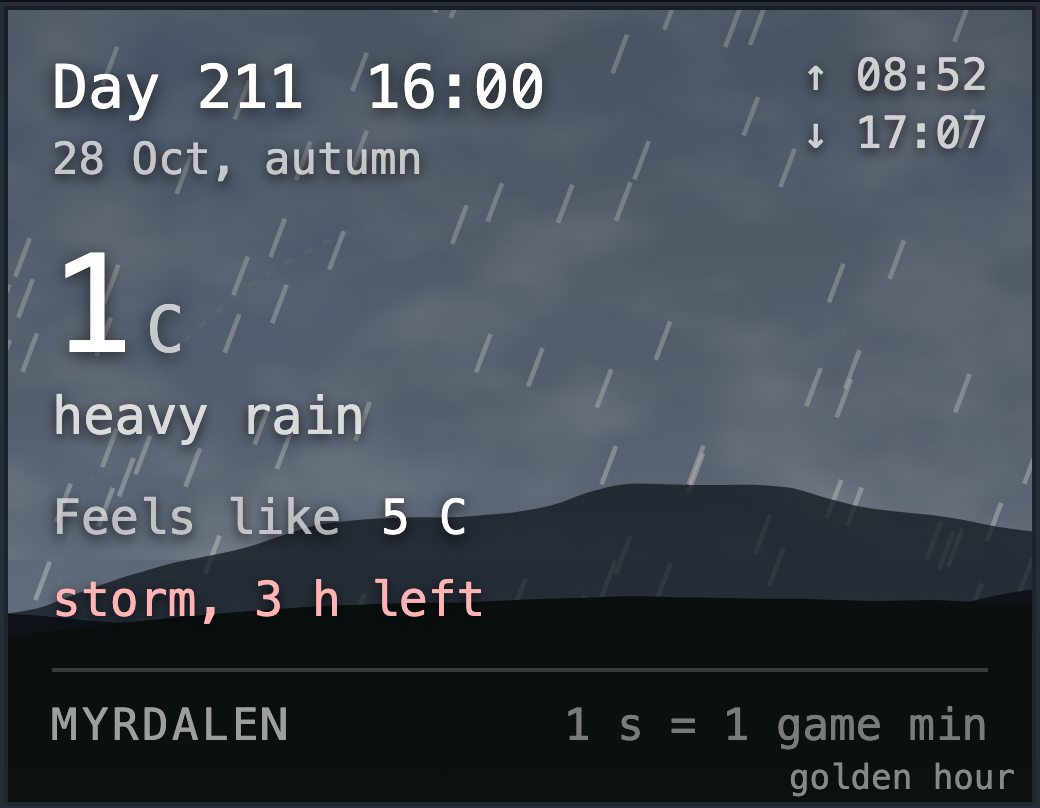
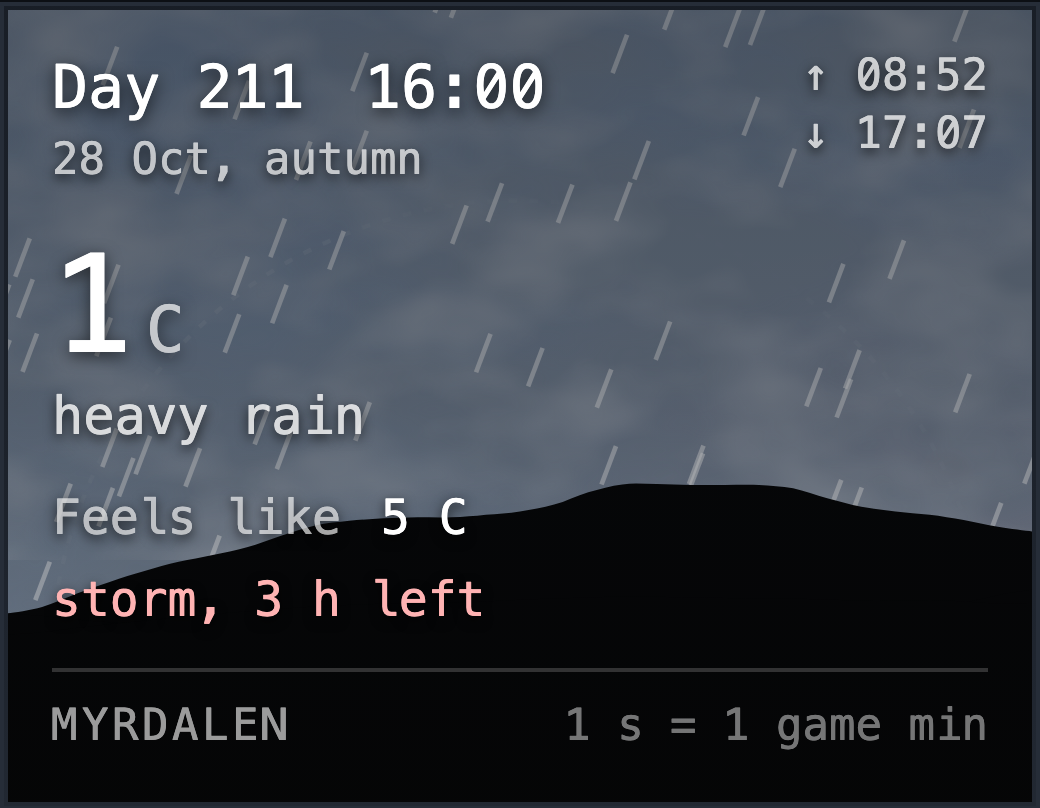
feat(survidle): enrich clear night skies

Changed region(s): [[0.0308, 0.5879, 1.0, 0.7735], [0.7385, 0.9282, 0.9538, 0.9901]]

diff --git a/08-survidle/src/ui/sky.ts b/08-survidle/src/ui/sky.ts
@@ -253,8 +253,54 @@ export function skyHtml(g: SkyGeom = STRIP, uid = "", showPhase = true): string 
   const u = uid ? `-${uid}` : "";
   const arc = `M ${g.cx - g.arcR} ${g.groundY} A ${g.arcR} ${g.arcR} 0 0 1 ${g.cx + g.arcR} ${g.groundY}`;
   const rand = (n: number, seed: number) => ((Math.sin(seed * 12.9898) * 43758.5453) % 1 + 1) % 1 * n;
-  const stars = Array.from({ length: 14 }, (_, i) =>
-    `<circle cx="${(rand(g.w, i + 1)).toFixed(1)}" cy="${(rand(g.groundY * 0.8, i + 31)).toFixed(1)}" r="${(0.5 + rand(0.6, i + 61)).toFixed(2)}" fill="#fff"/>`).join("");
+  const stars = Array.from({ length: 650 }, (_, i) => {
+    const bright = i % 47 === 0;
+    const middle = !bright && i % 9 === 0;
+    const r = bright ? 0.40 + rand(0.30, i + 61) : middle ? 0.18 + rand(0.20, i + 61) : 0.05 + rand(0.13, i + 61);
+    const opacity = bright ? 0.65 + rand(0.30, i + 81) : middle ? 0.35 + rand(0.35, i + 81) : 0.12 + rand(0.30, i + 81);
+    const colour = i % 29 === 0 ? "#d9e5ff" : i % 37 === 0 ? "#fff0dc" : "#fff";
+    return `<circle cx="${rand(g.w, i + 1).toFixed(1)}" cy="${rand(g.groundY * 0.82, i + 31).toFixed(1)}" r="${r.toFixed(2)}" fill="${colour}" opacity="${opacity.toFixed(2)}"/>`;
+  }).join("");
+  // A clean-edged river of light with a scatter of bright dust. The
+  // translucent strokes give the Milky Way breadth while the dust and
+  // procedural texture keep it crisp at widget scale.
+  const milkyPath = `M ${(g.w * 0.50).toFixed(1)} ${(-g.groundY * 0.08).toFixed(1)} C ${(g.w * 0.49).toFixed(1)} ${(g.groundY * 0.20).toFixed(1)}, ${(g.w * 0.60).toFixed(1)} ${(g.groundY * 0.36).toFixed(1)}, ${(g.w * 0.61).toFixed(1)} ${(g.groundY * 0.53).toFixed(1)} C ${(g.w * 0.62).toFixed(1)} ${(g.groundY * 0.70).toFixed(1)}, ${(g.w * 0.75).toFixed(1)} ${(g.groundY * 0.80).toFixed(1)}, ${(g.w * 0.795).toFixed(1)} ${(g.groundY * 0.96).toFixed(1)}`;
+  const milkyShape = `M ${g.w * 0.45} ${-g.groundY * 0.06} C ${g.w * 0.47} ${g.groundY * 0.18}, ${g.w * 0.50} ${g.groundY * 0.30}, ${g.w * 0.50} ${g.groundY * 0.43} C ${g.w * 0.50} ${g.groundY * 0.60}, ${g.w * 0.66} ${g.groundY * 0.78}, ${g.w * 0.75} ${g.groundY * 0.97} L ${g.w * 0.84} ${g.groundY * 0.97} C ${g.w * 0.77} ${g.groundY * 0.72}, ${g.w * 0.72} ${g.groundY * 0.60}, ${g.w * 0.73} ${g.groundY * 0.43} C ${g.w * 0.72} ${g.groundY * 0.28}, ${g.w * 0.57} ${g.groundY * 0.12}, ${g.w * 0.54} ${-g.groundY * 0.06} Z`;
+  const milkyDust = Array.from({ length: 650 }, (_, i) => {
+    const t = rand(1, i + 401);
+    const centre = g.w * (0.50 + 0.295 * t + Math.sin(t * Math.PI * 3) * 0.020);
+    const x = centre + (rand(1, i + 431) - 0.5) * g.w * (0.030 + Math.sin(t * Math.PI) * 0.140);
+    const y = g.groundY * (0.02 + 0.90 * t) + (rand(1, i + 461) - 0.5) * g.groundY * 0.045;
+    const bright = i % 23 === 0;
+    const middle = !bright && i % 5 === 0;
+    const r = bright ? 0.34 + rand(g === WALL ? 0.30 : 0.20, i + 491) : middle ? 0.18 + rand(0.22, i + 491) : 0.10 + rand(0.15, i + 491);
+    const colour = i % 7 === 0 ? "#dfc7ed" : i % 5 === 0 ? "#aec5f2" : "#f4f2ff";
+    const opacity = bright ? 0.65 + rand(0.30, i + 521) : middle ? 0.45 + rand(0.35, i + 521) : 0.22 + rand(0.36, i + 521);
+    return `<circle cx="${x.toFixed(1)}" cy="${y.toFixed(1)}" r="${r.toFixed(2)}" fill="${colour}" opacity="${opacity.toFixed(2)}"/>`;
+  }).join("");
+  const milkyFilaments = [
+    [`M ${g.w * 0.47} ${-g.groundY * 0.04} C ${g.w * 0.53} ${g.groundY * 0.18}, ${g.w * 0.54} ${g.groundY * 0.36}, ${g.w * 0.59} ${g.groundY * 0.56} C ${g.w * 0.65} ${g.groundY * 0.69}, ${g.w * 0.70} ${g.groundY * 0.82}, ${g.w * 0.80} ${g.groundY * 0.95}`, "#d9c4e9", 1.6],
+    [`M ${g.w * 0.52} ${-g.groundY * 0.04} C ${g.w * 0.48} ${g.groundY * 0.22}, ${g.w * 0.64} ${g.groundY * 0.39}, ${g.w * 0.59} ${g.groundY * 0.58} C ${g.w * 0.58} ${g.groundY * 0.72}, ${g.w * 0.78} ${g.groundY * 0.83}, ${g.w * 0.77} ${g.groundY * 0.96}`, "#91afe4", 1.1],
+    [`M ${g.w * 0.49} ${-g.groundY * 0.02} C ${g.w * 0.59} ${g.groundY * 0.20}, ${g.w * 0.51} ${g.groundY * 0.42}, ${g.w * 0.63} ${g.groundY * 0.61} C ${g.w * 0.72} ${g.groundY * 0.74}, ${g.w * 0.69} ${g.groundY * 0.86}, ${g.w * 0.82} ${g.groundY * 0.96}`, "#eef0ff", 0.7],
+  ].map(([d, stroke, width]) => [
+    `<path d="${d}" fill="none" stroke="${stroke}" stroke-width="${Number(width) * 6}" opacity="0.010"/>`,
+    `<path d="${d}" fill="none" stroke="${stroke}" stroke-width="${Number(width) * 3}" opacity="0.016"/>`,
+    `<path d="${d}" fill="none" stroke="${stroke}" stroke-width="${Number(width) * 1.2}" opacity="0.024"/>`,
+  ].join("")).join("");
+  const constellations: ReadonlyArray<ReadonlyArray<readonly [number, number]>> = [
+    [[0.08, 0.31], [0.13, 0.27], [0.19, 0.31], [0.24, 0.26], [0.29, 0.29], [0.33, 0.24], [0.38, 0.21]],
+    [[0.12, 0.27], [0.18, 0.36], [0.24, 0.28], [0.30, 0.37], [0.36, 0.27]],
+    [[0.25, 0.25], [0.21, 0.37], [0.26, 0.44], [0.32, 0.38], [0.30, 0.52], [0.26, 0.52], [0.23, 0.61]],
+    [[0.08, 0.24], [0.14, 0.35], [0.20, 0.43], [0.27, 0.51], [0.20, 0.43], [0.24, 0.28], [0.20, 0.43], [0.13, 0.52]],
+  ];
+  const constellationHtml = constellations.map((points, index) => {
+    const dots = points.map(([x, y]) => `<circle cx="${(x * g.w).toFixed(1)}" cy="${(y * g.groundY).toFixed(1)}" r="${g === WALL ? 1.0 : 0.65}"/>`).join("");
+    return `<g id="sky-constellation-${index}" class="sky-constellation" data-constellation="${index}" fill="#edf2ff" opacity="0">${dots}</g>`;
+  }).join("");
+  const meteors = [
+    [0.95, 0.35, 0.81, 0.49, 0.08], [0.80, 0.20, 0.69, 0.32, 0.34],
+    [0.91, 0.12, 0.77, 0.26, 0.61], [0.72, 0.08, 0.62, 0.19, 0.84],
+  ].map(([x1, y1, x2, y2, delay]) => `<line class="sky-meteor" x1="${g.w * x1}" y1="${g.groundY * y1}" x2="${g.w * x2}" y2="${g.groundY * y2}" style="--meteor-delay:${(-delay * 12).toFixed(1)}s"/>`).join("");
   // Cloud is a noise field, not a row of ellipses. feTurbulence gives a
   // fractal the browser generates itself: the shape has detail at every
   // scale the way weather does, and lobes drawn by hand never will. The
@@ -285,13 +331,16 @@ export function skyHtml(g: SkyGeom = STRIP, uid = "", showPhase = true): string 
   }).join("");
   return `<svg class="sky" id="sky" viewBox="0 0 ${g.w} ${g.h}" width="${g.w}" height="${g.h}" preserveAspectRatio="xMidYMax slice" aria-label="sky"
  data-sky-w="${g.w}" data-sky-h="${g.h}" data-sky-ground="${g.groundY}" data-sky-arc="${g.arcR}" data-sky-cx="${g.cx}">
-<defs>${cloudField}<radialGradient id="sky-glowgrad${u}" class="glowgrad" gradientUnits="userSpaceOnUse" cx="${g.cx}" cy="${g.groundY}" r="${g.arcR * 1.15}">
+<defs>${cloudField}<filter id="sky-milkytexture${u}" x="-40%" y="-10%" width="180%" height="120%"><feTurbulence type="fractalNoise" baseFrequency="0.035 0.018" numOctaves="4" seed="43" result="grain"/><feComposite in="grain" in2="SourceAlpha" operator="in" result="clipped"/><feColorMatrix in="clipped" values="0 0 0 0 0.55 0 0 0 0 0.48 0 0 0 0 0.82 0 0 0 1 0" result="coloured"/><feBlend in="SourceGraphic" in2="coloured" mode="screen"/></filter><filter id="sky-milkyedge${u}" x="-35%" y="-20%" width="170%" height="140%"><feGaussianBlur stdDeviation="3.5"/></filter><mask id="sky-milkymask${u}" maskUnits="userSpaceOnUse" x="0" y="-10" width="${g.w}" height="${g.groundY + 20}"><path d="${milkyShape}" fill="#fff" filter="url(#sky-milkyedge${u})"/></mask><linearGradient id="sky-milkygrad${u}" gradientUnits="userSpaceOnUse" x1="${g.w * 0.43}" y1="0" x2="${g.w * 0.88}" y2="0"><stop offset="0" stop-color="#849bd7" stop-opacity="0"/><stop offset="0.34" stop-color="#a3add9" stop-opacity="0.18"/><stop offset="0.48" stop-color="#c7bee4" stop-opacity="0.58"/><stop offset="0.62" stop-color="#b1b5df" stop-opacity="0.30"/><stop offset="1" stop-color="#8299d4" stop-opacity="0"/></linearGradient><radialGradient id="sky-glowgrad${u}" class="glowgrad" gradientUnits="userSpaceOnUse" cx="${g.cx}" cy="${g.groundY}" r="${g.arcR * 1.15}">
 <stop id="sky-glow-in" offset="0" stop-color="#ff8a5c" stop-opacity="0.95"/>
 <stop id="sky-glow-mid" offset="0.4" stop-color="#ff8a5c" stop-opacity="0.4"/>
 <stop id="sky-glow-out" offset="1" stop-color="#ff8a5c" stop-opacity="0"/>
 </radialGradient><linearGradient id="skygrad${u}" x1="0" y1="0" x2="0" y2="1"><stop id="sky-top" offset="0" stop-color="#4682d2"/><stop id="sky-bottom" offset="1" stop-color="#96c3f0"/></linearGradient></defs>
 <rect width="${g.w}" height="${g.h}" fill="url(#skygrad${u})"/>
+<g id="sky-milky-way" opacity="0"><path d="${milkyShape}" fill="url(#sky-milkygrad${u})" opacity="0.30" filter="url(#sky-milkytexture${u})" mask="url(#sky-milkymask${u})" style="mix-blend-mode:screen"/><path d="${milkyPath}" fill="none" stroke="#071027" stroke-width="${(g.w * 0.014).toFixed(1)}" opacity="0.16"/>${milkyFilaments}${milkyDust}</g>
 <g id="sky-stars" opacity="0">${stars}</g>
+${constellationHtml}
+<g id="sky-perseids" opacity="0">${meteors}</g>
 <rect id="sky-glow" width="${g.w}" height="${g.h}" fill="url(#sky-glowgrad${u})" opacity="0"/>
 <path d="${arc}" fill="none" stroke="rgba(255,255,255,0.18)" stroke-dasharray="2 3"/>
 <circle id="sky-sun" cx="${g.cx - g.arcR}" cy="${g.groundY}" r="6" fill="#ffd66b" stroke="#fff3c0" stroke-width="1"/>
@@ -306,7 +355,7 @@ export function skyHtml(g: SkyGeom = STRIP, uid = "", showPhase = true): string 
 <g class="sky-cloud" style="--drift:88s"><rect x="0" y="0" width="${g.w * 2}" height="${g.groundY * 0.72}" filter="url(#sky-cloudnoise-hi${u})"/></g>
 </g>
 <g id="sky-fall" opacity="0">${fall}</g>
-<path id="sky-far" d="${ridgePath(g, 7, g.groundY * 0.30, 30)}" fill="#141c24" opacity="0.75"/>
+<path id="sky-far" d="${ridgePath(g, 7, g.groundY * 0.30, 30)}" fill="#354d45"/>
 <path id="sky-mid" d="${ridgePath(g, 23, g.groundY * 0.20, 34)}" fill="#0f161c"/>
 <path id="sky-near" d="${ridgePath(g, 51, g.groundY * 0.12, 40)}" fill="#0b1210"/>
 ${showPhase ? `<text id="sky-label" x="${g.w - 4}" y="${g.h - 3}" text-anchor="end" font-size="8" fill="rgba(255,255,255,0.6)"></text>` : ""}
@@ -368,7 +417,20 @@ function dressSky(svg: SVGElement, state: GameState, cal: Calendar, ambient: num
   setAttr(root, "sky-moon-lit", "cy", f(pos.y));
   setAttr(root, "sky-moon-dark", "cx", f(pos.x + offset));
   setAttr(root, "sky-moon-dark", "cy", f(pos.y));
-  setAttr(root, "sky-stars", "opacity", pos.body === "moon" && state.weather.precip === "none" && state.weather.clear ? "0.9" : "0");
+  const clearNight = pos.body === "moon" && state.weather.precip === "none" && state.weather.clear;
+  setAttr(root, "sky-stars", "opacity", clearNight ? "0.9" : "0");
+  const deepSky = state.weather.precip === "none" && state.weather.clear
+    ? clamp((0.80 - phaseFor(cal.hour, cal.sunrise, cal.sunset).brightness) / 0.25, 0, 1)
+    : 0;
+  setAttr(root, "sky-milky-way", "opacity", (deepSky * 0.82).toFixed(2));
+  // The evening after midnight still belongs to the night that began at
+  // sunset. This keeps the figure stable until dawn, then chooses another
+  // from both the run seed and the next night's date.
+  const nightIndex = cal.dayIndex - (cal.hour < cal.sunrise ? 1 : 0);
+  const constellation = ((Math.imul(state.seed, 1103515245) + Math.imul(nightIndex, 12345)) >>> 0) % 4;
+  for (let i = 0; i < 4; i++) setAttr(root, `sky-constellation-${i}`, "opacity", clearNight && i === constellation ? "1" : "0");
+  const perseids = clearNight && cal.dayOfYear >= 197 && cal.dayOfYear <= 235;
+  setAttr(root, "sky-perseids", "opacity", perseids ? "1" : "0");
   setAttr(root, "sky-top", "stop-color", light.skyTop);
   setAttr(root, "sky-bottom", "stop-color", light.skyBottom);
   // The sun goes down behind the hills, so for the whole of the pink hour
@@ -417,18 +479,12 @@ function dressSky(svg: SVGElement, state: GameState, cal: Calendar, ambient: num
   setAttr(root, "sky-cloudflood-hi", "flood-color", light.cloudHigh);
   setAttr(root, "sky-haze", "fill", light.cloudLow);
 
-  // Snow on the ground is white ground. Black hills under a card reading
-  // "snow 40 cm" said one thing in words and another in the picture.
-  const lying = w.snowCm >= 1;
-  for (const [id, bare, snowy] of RIDGES) setAttr(root, id, "fill", lying ? snowy : bare);
+  // Terrain is a deliberately colourless, fully opaque silhouette. Weather
+  // remains visible in the sky and precipitation instead of tinting the land.
+  for (const ridge of RIDGES) setAttr(root, ridge, "fill", "#050505");
 }
 
-/** The three ridges, as they are bare and as they are under snow. */
-const RIDGES: ReadonlyArray<readonly [string, string, string]> = [
-  ["sky-far", "#141c24", "#8695ab"],
-  ["sky-mid", "#0f161c", "#61708a"],
-  ["sky-near", "#0b1210", "#3c4859"],
-];
+const RIDGES = ["sky-far", "sky-mid", "sky-near"] as const;
 
 export function phaseName(cal: Calendar): string {
   const h = cal.hour;

diff --git a/08-survidle/tests/sky.test.ts b/08-survidle/tests/sky.test.ts
@@ -8,7 +8,7 @@ import { ambientTemperature } from "../src/sim/weather";
 import { placesHtml, weatherHtml } from "../src/ui/panels";
 import { mapHtml } from "../src/ui/map";
 import { newUiState, resetPanels, setPanel } from "../src/ui/render";
-import { bodyPosition, lighting, phaseName, skyHtml, updateSky } from "../src/ui/sky";
+import { bodyPosition, lighting, phaseName, skyHtml, updateSky, WALL } from "../src/ui/sky";
 import { siteCamp } from "./siting-helpers";
 
 const clear: Weather = { precip: "none", clear: true, offset: 0, snowCm: 0, rolledDay: 0, storm: null, dryDays: 0, wetDay: false, dryWarned: false, iceCm: 0 };
@@ -163,6 +163,104 @@ describe("sky in the page", () => {
     expect(viewport.classList.contains("snowing")).toBe(true);
     // And under a sky that thick there is no disc left to see.
     expect(opacity("#sky-moon")).toBeLessThan(0.1);
+  });
+
+  it("keeps one varied constellation star pattern through a clear night and hides it by day or cloud", () => {
+    const { state } = newGame(21);
+    const root = document.createElement("div");
+    root.innerHTML = skyHtml(WALL);
+    const visibleConstellation = () => root.querySelector<SVGElement>('[data-constellation][opacity="1"]')?.id;
+    const opacity = (id: string) => root.querySelector(id)?.getAttribute("opacity");
+
+    const evening = at(22);
+    updateSky(state, evening, -3, root);
+    const first = visibleConstellation();
+    expect(first).toBeTruthy();
+    expect(root.querySelector(".sky-constellation polyline")).toBeNull();
+    expect(root.querySelector("#sky-milky-way")).not.toBeNull();
+    expect(opacity("#sky-milky-way")).not.toBe("0");
+    expect(opacity("#sky-stars")).not.toBe("0");
+
+    updateSky(state, at(28), -3, root);
+    expect(visibleConstellation()).toBe(first);
+
+    const nights = new Set<string>();
+    for (let day = 0; day < 8; day++) {
+      updateSky(state, calendar((22 - 8) * 60 + day * 1440), -3, root);
+      const constellation = visibleConstellation();
+      if (constellation) nights.add(constellation);
+    }
+    expect(nights.size).toBeGreaterThan(2);
+
+    const { state: otherState } = newGame(22);
+    updateSky(otherState, evening, -3, root);
+    expect(visibleConstellation()).not.toBe(first);
+
+    updateSky(state, at(13), 10, root);
+    expect(visibleConstellation()).toBeUndefined();
+    expect(opacity("#sky-stars")).toBe("0");
+    expect(opacity("#sky-milky-way")).toBe("0");
+
+    state.weather.clear = false;
+    updateSky(state, evening, -3, root);
+    expect(visibleConstellation()).toBeUndefined();
+    expect(opacity("#sky-stars")).toBe("0");
+
+    state.weather.clear = true;
+    state.weather.precip = "light";
+    updateSky(state, evening, -3, root);
+    expect(visibleConstellation()).toBeUndefined();
+    expect(opacity("#sky-stars")).toBe("0");
+  });
+
+  it("draws the terrain as one opaque colourless silhouette", () => {
+    const { state } = newGame(21, 172);
+    const root = document.createElement("div");
+    root.innerHTML = skyHtml(WALL);
+    const fills = () => ["#sky-far", "#sky-mid", "#sky-near"]
+      .map((id) => root.querySelector(id)?.getAttribute("fill"));
+    const summer = calendar((13 - 8) * 60, 172);
+
+    updateSky(state, summer, 14, root);
+    const summerFills = fills();
+    expect(new Set(summerFills)).toEqual(new Set(["#050505"]));
+    expect(root.querySelector("#sky-trees")).toBeNull();
+    for (const id of ["#sky-far", "#sky-mid", "#sky-near"]) {
+      const opacity = root.querySelector(id)?.getAttribute("opacity");
+      expect(opacity === null || opacity === "1").toBe(true);
+    }
+
+    state.weather.clear = false;
+    updateSky(state, summer, 14, root);
+    expect(fills()).toEqual(summerFills);
+
+    state.weather.clear = true;
+    const winter = calendar((13 - 8) * 60, 350);
+    updateSky(state, winter, -5, root);
+    expect(fills()).toEqual(summerFills);
+
+    state.weather.snowCm = 20;
+    updateSky(state, winter, -5, root);
+    expect(fills()).toEqual(summerFills);
+  });
+
+  it("shows Perseid streaks only on clear nights in their late-summer window", () => {
+    const { state } = newGame(21, 223);
+    const root = document.createElement("div");
+    root.innerHTML = skyHtml(WALL);
+    const opacity = () => root.querySelector("#sky-perseids")?.getAttribute("opacity");
+
+    updateSky(state, calendar((22 - 8) * 60, 223), 12, root);
+    expect(root.querySelectorAll("#sky-perseids .sky-meteor").length).toBeGreaterThan(2);
+    expect(opacity()).toBe("1");
+
+    state.weather.clear = false;
+    updateSky(state, calendar((22 - 8) * 60, 223), 12, root);
+    expect(opacity()).toBe("0");
+
+    state.weather.clear = true;
+    updateSky(state, calendar((22 - 8) * 60, 250), 12, root);
+    expect(opacity()).toBe("0");
   });
 
   it("spot distances are from where you stand, with the walking time on the button", () => {

diff --git a/08-survidle/src/style.css b/08-survidle/src/style.css
@@ -305,6 +305,26 @@ button.act small.warn, span.act small.warn, .opt.off span.act small.warn { color
 #clock .big { font-size: 16px; color: #fff; }
 .sky { flex: 0 0 auto; border: 1px solid var(--line); display: block; }
 .sky circle, .sky stop { transition: cx 0.3s linear, cy 0.3s linear, opacity 0.5s, stop-color 0.5s; }
+.sky #sky-stars, .sky #sky-milky-way, .sky .sky-constellation, .sky #sky-perseids { transition: opacity 0.8s; }
+.sky #sky-far, .sky #sky-mid, .sky #sky-near { transition: fill 0.8s; }
+.sky-meteor {
+  stroke: rgba(244, 247, 255, 0.92);
+  stroke-width: 0.9;
+  stroke-linecap: round;
+  opacity: 0;
+  animation: sky-meteor 12s linear infinite;
+  animation-delay: var(--meteor-delay);
+}
+@keyframes sky-meteor {
+  0%, 76% { opacity: 0; transform: translate(0, 0); }
+  78% { opacity: 0.95; }
+  86% { opacity: 0; transform: translate(-32px, 32px); }
+  100% { opacity: 0; transform: translate(-32px, 32px); }
+}
+@media (prefers-reduced-motion: reduce) {
+  .sky-meteor { animation: none; opacity: 0; }
+  .sky-meteor:first-child { opacity: 0.72; }
+}
 
 
 /* The map's tooltip: translucent so the ground it describes stays visible

diff --git a/08-survidle/src/skygallery.ts b/08-survidle/src/skygallery.ts
@@ -48,6 +48,7 @@ export const SKY_CASES: SkyCase[] = [
   { name: "dusk", note: "the sun going down: the pink hour", hour: { of: "sunset", plus: -0.05 }, doy: 172, weather: { clear: true, precip: "none" } },
   { name: "golden", note: "the last light before the sun is gone", hour: { of: "sunset", plus: -0.9 }, doy: 200, weather: { clear: true, precip: "none" } },
   { name: "night-clear", note: "the moon up and the stars out", hour: 1, doy: 172, weather: { clear: true, precip: "none" } },
+  { name: "perseids", note: "a clear night near the Perseid peak", hour: 1, doy: 223, weather: { clear: true, precip: "none" } },
   { name: "night-cloudy", note: "the same night with the stars shut out", hour: 1, doy: 172, weather: { clear: false, precip: "none" } },
   { name: "rain-light", note: "rain, falling straight", hour: 14, doy: 200, weather: { clear: false, precip: "light" } },
   { name: "rain-heavy", note: "heavier rain, thicker cloud", hour: 14, doy: 200, weather: { clear: false, precip: "heavy" } },

diff --git a/08-survidle/docs/sky-shots/README.md b/08-survidle/docs/sky-shots/README.md
@@ -27,6 +27,10 @@ them; `npm run sky -- --check` says which ones a change has altered.
 
   ![night-clear](night-clear.png)
 
+- **perseids** - perseidsa clear night near the Perseid peak
+
+  ![perseids](perseids.png)
+
 - **night-cloudy** - night-cloudythe same night with the stars shut out
 
   ![night-cloudy](night-cloudy.png)
